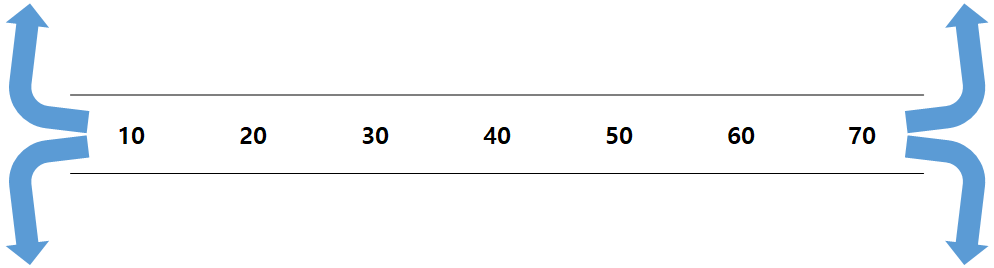
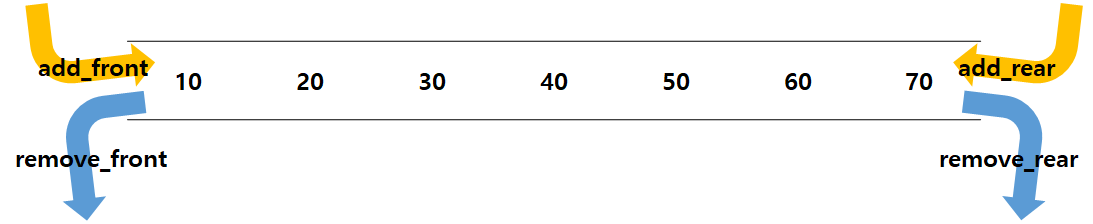
c

Changed region(s): [[0.0, 0.0, 0.998, 1.0]]

diff --git a/_posts/Algorithm/2021-11-07-Deque.md b/_posts/Algorithm/2021-11-07-Deque.md
@@ -12,33 +12,34 @@ mathjax: true
 
 * content
 {:toc}
-# 정의
+# Deque
+
+## 정의
 
 ![](/img/Deque.png)
-
-<img src="/img/Deque.png" style="zoom:75%;" /> 
 
 덱(Deque)은 스택(Stack)과 큐(Queue)의 기능을 모두 수행하는 자료구조이다.
 
 ## 📘 Python Code
 
 ```python
+from typing import Any
 class Deque:
-    def __init__(self):                 # 생성
+    def __init__(self)              -> None:    # 생성
         self._items = []
-    def __repr__(self):                 # 출력
+    def __repr__(self)              -> None:    # 출력
         return f"<~{self._items}~>"
-    def is_empty(self):                 # 비었는지 여부 확인 -> bool
-        return not bool(self._items)
-    def add_front(self, item):          # front 항목 추가 -> None
+    def add_front(self, item : Any) -> None:    # front 항목 추가
         self._items.append(item)
-    def add_rear(self, item):           #  rear 항목 추가 -> None
+    def add_rear(self, item: Any)   -> None:    #  rear 항목 추가
         self._items.insert(0, item)
-    def remove_front(self):             # front 항목 제거 -> Any(삭제된 항목)
+    def remove_front(self)          -> Any:     # front 항목 삭제 & 삭제된 값 반환
         return self._items.pop()
-    def remove_rear(self):              #  rear 항목 제거 -> Any(삭제된 항목)
+    def remove_rear(self)           -> Any:     #  rear 항목 삭제 & 삭제된 값 반환
         return self._items.pop(0)
-    def size(self):                     # 항목 개수 확인 -> int
+    def is_empty(self)              -> bool:    # 비었는지 여부 확인
+        return not bool(self._items)
+    def size(self) 					-> int:		# 항목 개수 확인 -> int
         return len(self._items)
 ```
 
@@ -46,13 +47,15 @@ class Deque:
 
 # 응용 : 회문 판별
 
+## 개념
+
 회문(palindrome)은 제대로 읽었을 때와 거꾸로 읽었을 때가 같은 문장을 의미한다. 구현에 필요한 개념은 다음과 같다.
 
 - 문장의 첫 글자와 마지막 글자는 동일해야 한다.
 
-  문장 문자열의 0번 인덱스가 가리키는 값은 -1번 인덱스가 가리키는 값과 동일해야 한다. 두 인덱스를 중앙을 향해 한 칸씩 이동했을 때에도 마찬가지로 가리키는 값이 일치해야 한다. 문장 전체에서 비교를 실행했을 때 모든 인덱스의 짝이 일치하면 그 문장은 회문이다. 하나라도 짝이 맞지 않다면 그 문장은 회문이 아니다.
+  문장 문자열의 0번 인덱스가 가리키는 값은 -1번 인덱스가 가리키는 값과 동일해야 한다. 두 인덱스를 중앙을 향해 한 칸씩 이동했을 때에도 마찬가지로 가리키는 값이 일치해야 한다. **문장 전체에서 비교를 실행했을 때 모든 인덱스의 짝이 일치하면 그 문장은 회문이다.** 하나라도 짝이 맞지 않다면 그 문장은 회문이 아니다.
 
-- 공백은 무시한다.
+- **공백은 무시한다.**
 
 ## 📘 Python Code
 
@@ -71,6 +74,3 @@ def pal_checker(a_string):
             return False
     return True                 # 모든 front와 rear의 짝이 맞으면 True 반환
 ```
-
-
-
